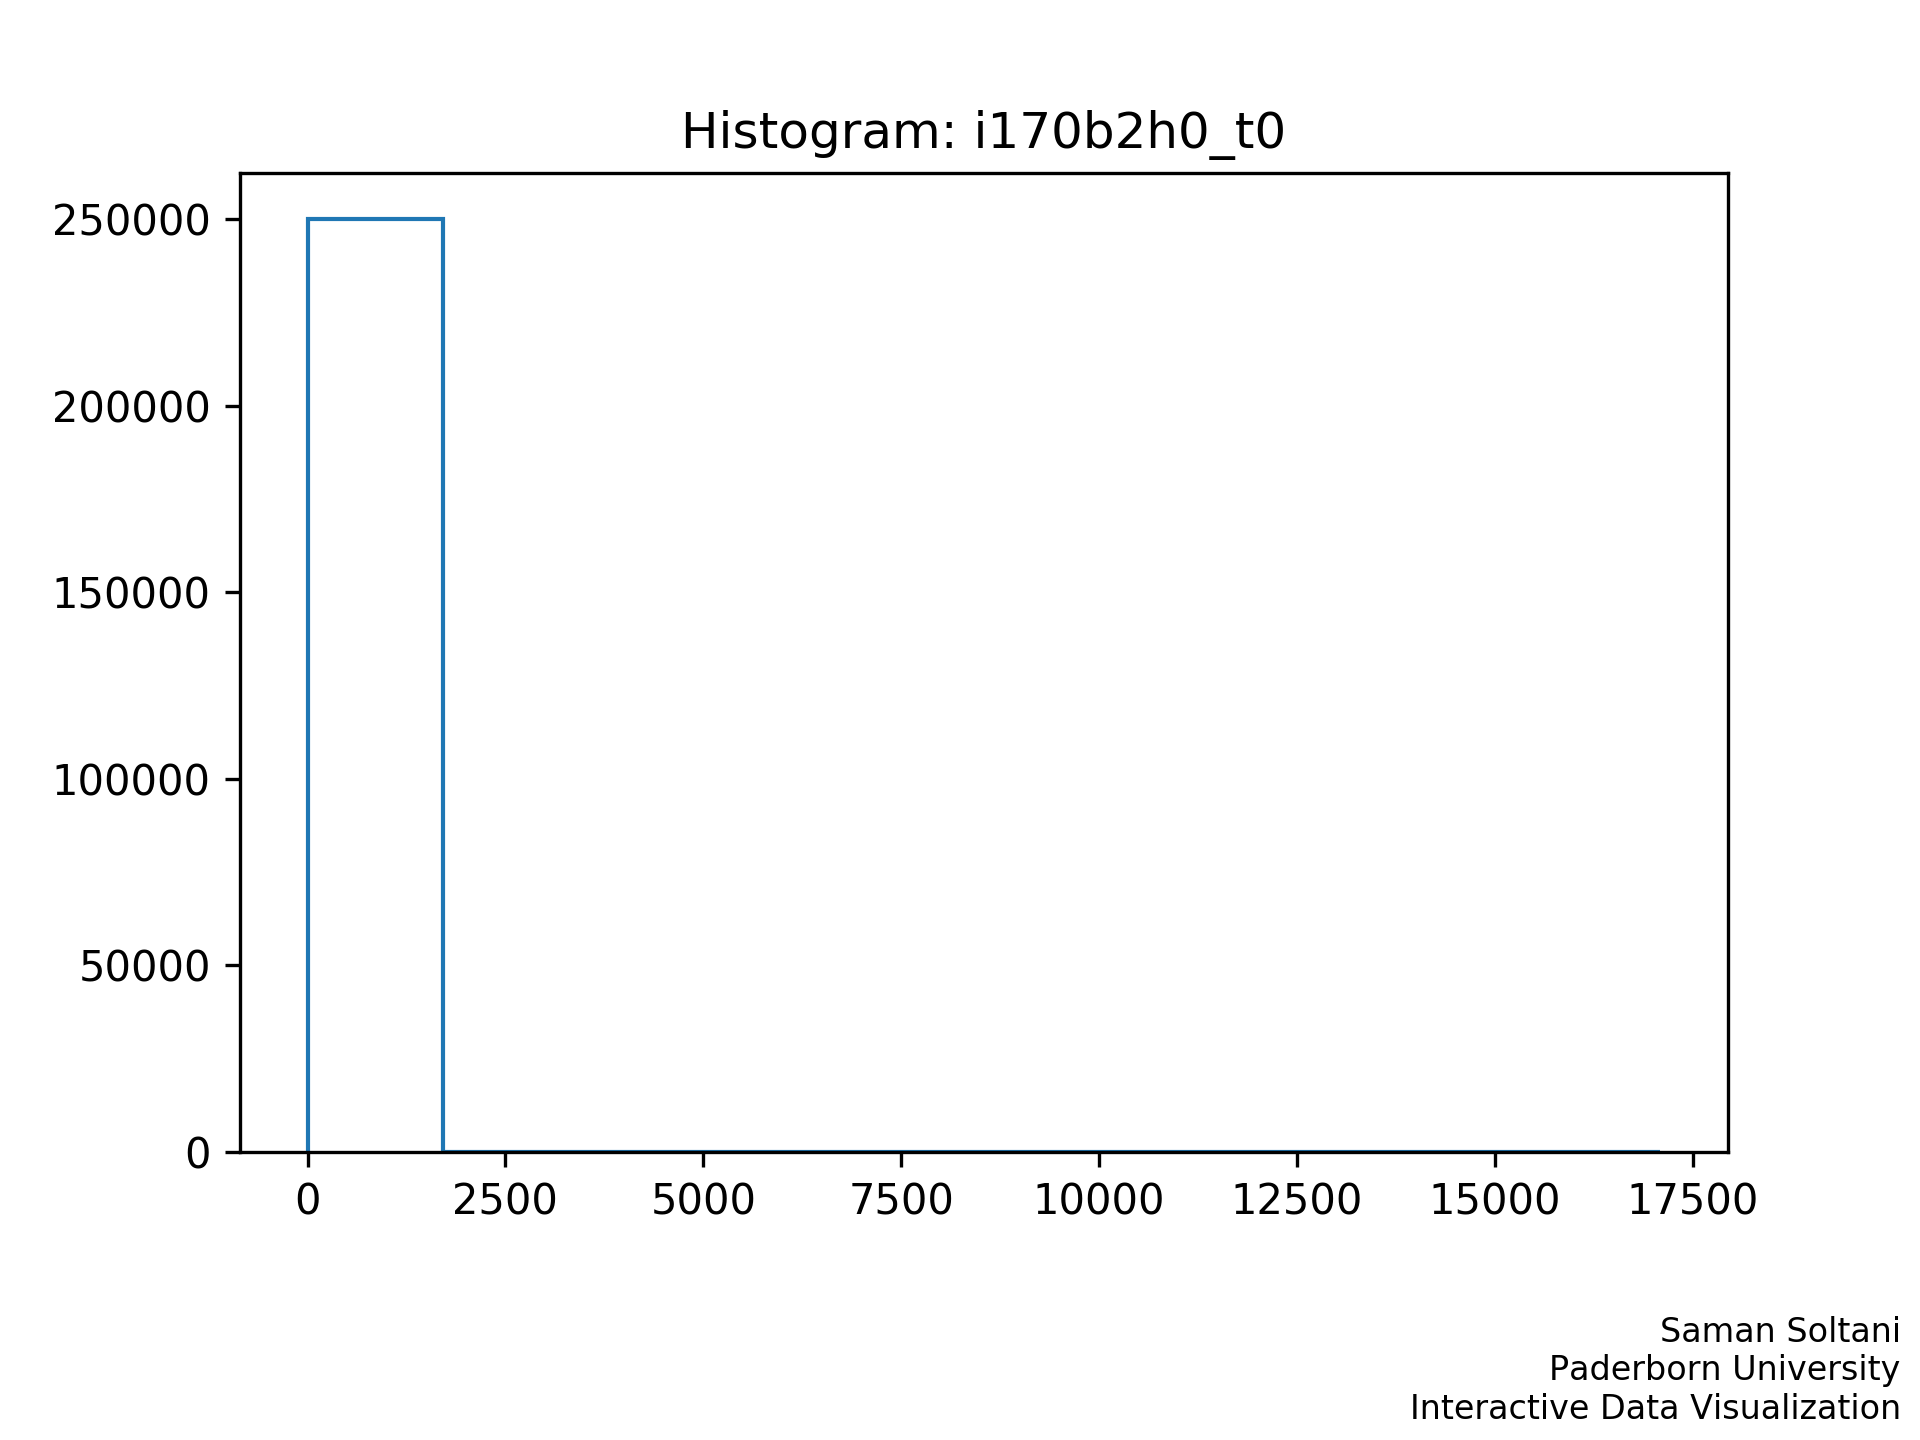
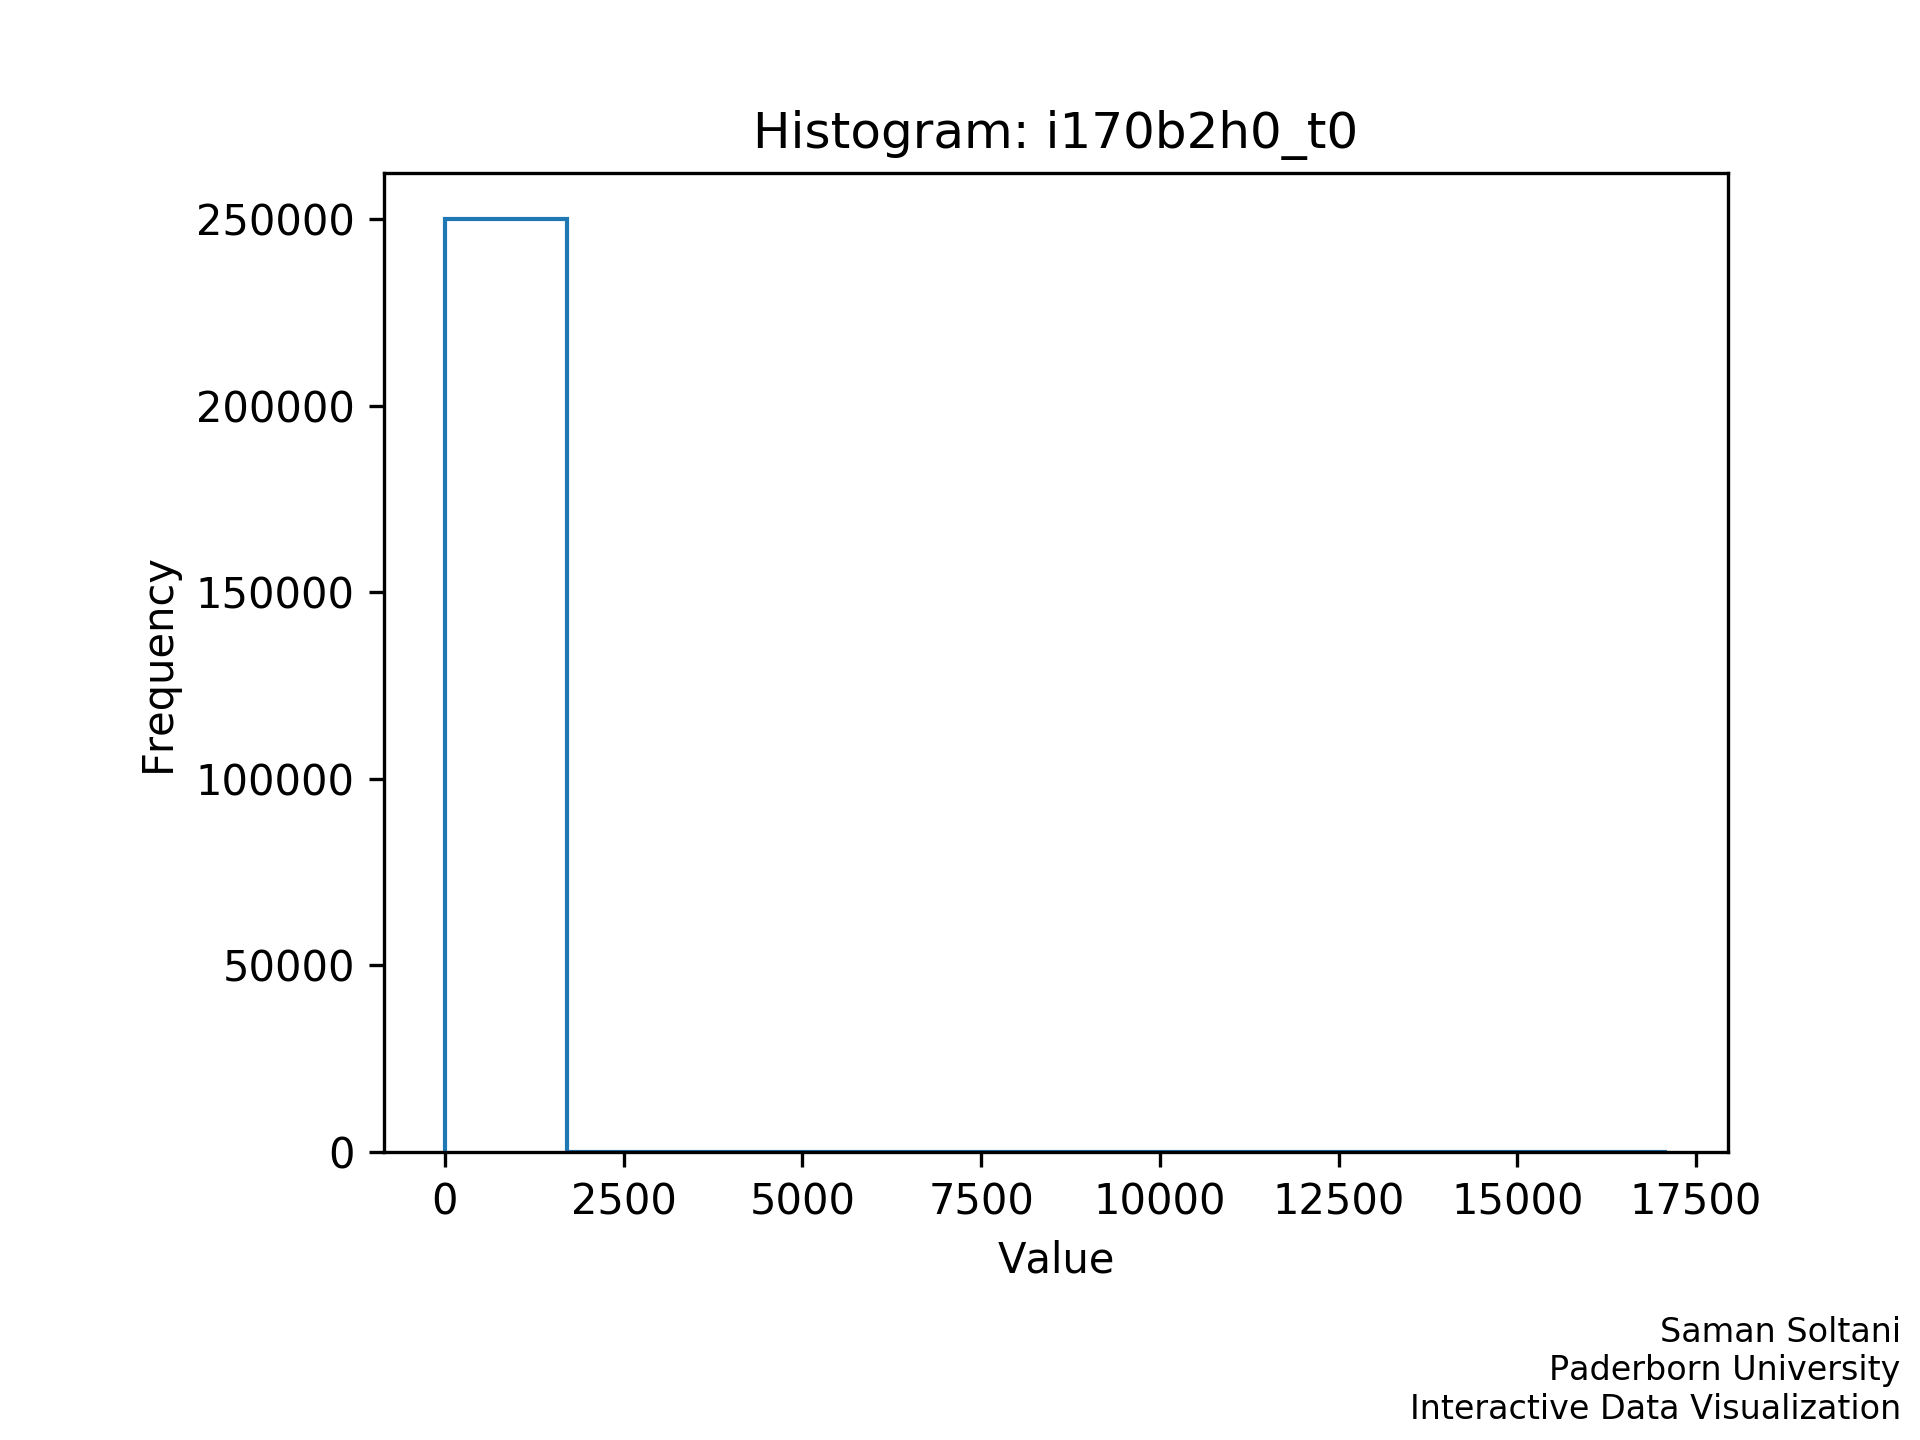
change mean and variance

diff --git a/assignment-3/main.py b/assignment-3/main.py
@@ -18,11 +18,10 @@ def nonlinear(value, min_value, max_value):
             return (log - log_min) / (log_max - log_min) * scale
     return 0
 
-
 def saveplot(data, title, file_name, type):
     plt.clf()
     txt = "Saman Soltani\nPaderborn University\nInteractive Data Visualization"
-    plt.subplots_adjust(bottom=0.2)
+    plt.subplots_adjust(bottom=0.2, left=0.2)
     plt.figtext(0.99, 0.01, txt, wrap=True,
                 ha="right", va="bottom", fontsize=8)
     plt.title(title)
@@ -33,7 +32,11 @@ def saveplot(data, title, file_name, type):
         plt.imshow(data)
         plt.gca().invert_yaxis()
     elif type == 'hist':
+        plt.xlabel('Value')
+        plt.ylabel('Frequency')        
         plt.hist(data, histtype="step")
+    elif type == 'bar':
+        plt.bar(data.keys(), data.values())        
     elif type == 'plot':
         plt.plot(data)
 
@@ -62,9 +65,6 @@ def task(file_name):
     lines = content.split('\n')
     data = []
     data_list = []
-    total = 0
-    total_sqr = 0
-    count = 0
     line_x = 0
     # read data with comma delimiter
     for i in range(len(lines)):
@@ -73,31 +73,18 @@ def task(file_name):
             for value in data[len(data) - 1]:
                 data_list.append(value)
 
-                # calculate total
-                total += value
-                total_sqr += value * value
 
-                # calculate min and max value 
-                if count == 0:
-                    min_value = value
-                    max_value = value
+    # calculate min
+    min_value = min(data_list)
 
-                if value < min_value:
-                    min_value = value
-
-                if value > max_value:
-                    max_value = value
-
-                count += 1
+    # calculate max
+    max_value = max(data_list)
 
     # calculate mean
-    mean = total / count
+    mean = np.mean(data_list)
 
     # calculate variance
-    variance = total * total
-    variance /= count
-    variance = total_sqr - variance
-    variance /= count - 1
+    variance = np.var(data_list)
 
     # nonlinear filter
     nonlinear_data = np.zeros((size, size))
@@ -117,8 +104,6 @@ def task(file_name):
     for i in indices:
         if r[i] in r:
             p[i] += 1
-        else:
-            p[i] = 1
 
     pr = np.zeros(len(r))
     cdf = np.zeros(len(r))
@@ -139,22 +124,22 @@ def task(file_name):
 
     # save all plots
     saveplot(cdf255_matrix, "Histogram Equalization: " + file_name, file_name + "-he", "im")
-    saveplot(profile_line, "Max Profile Line: " + file_name, file_name + "-pl", "plot")
-    saveplot(nonlinear_data, "Non-Linear: " + file_name, file_name + "-nl", "imc")
-    saveplot(data_list, "Histogram: " + file_name, file_name + "-h", "hist")
+    
+    if (file_name == "i170b2h0_t0"):
+        saveplot(profile_line, "Max Profile Line: " + file_name, file_name + "-pl", "plot")
+        saveplot(nonlinear_data, "Non-Linear: " + file_name, file_name + "-nl", "imc")
+        saveplot(data_list, "Histogram: " + file_name, file_name + "-h", "hist")
 
-    # save text files
-    text = ""
-    text += "file: " + file_name + "\n"
-    text += "min: " + str(min_value) + "\n"
-    text += "max: " + str(max_value) + "\n"
-    text += "count: " + str(count) + "\n"
-    text += "total: " + str(total) + "\n"
-    text += "mean: " + str(mean) + "\n"
-    text += "variance: " + str(variance) + "\n"
+        # save text files
+        text = ""
+        text += "file: " + file_name + "\n"
+        text += "min: " + str(min_value) + "\n"
+        text += "max: " + str(max_value) + "\n"
+        text += "mean: " + str(mean) + "\n"
+        text += "variance: " + str(variance) + "\n"
 
-    with open("./outputs/" + file_name + ".txt", "w+") as out:
-        out.write(text)
+        with open("./outputs/" + file_name + ".txt", "w+") as out:
+            out.write(text)
 
     return cdf255_matrix
 
